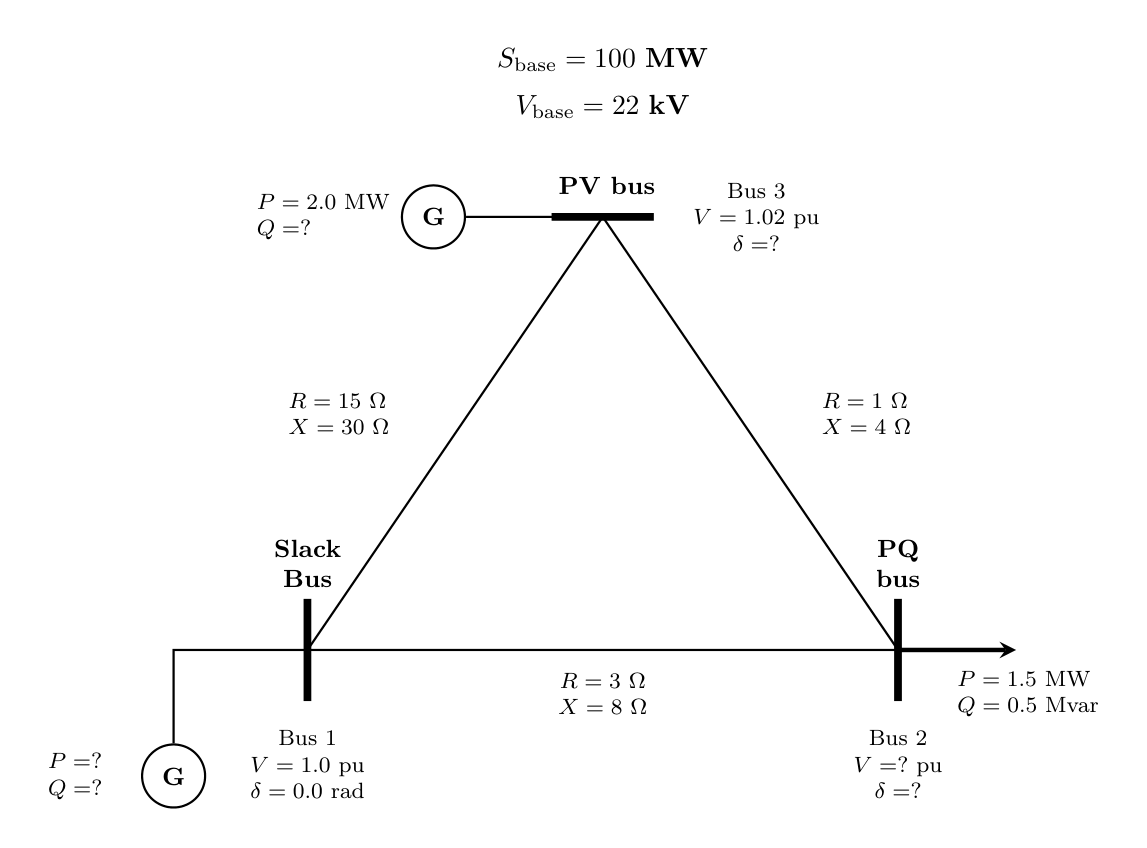
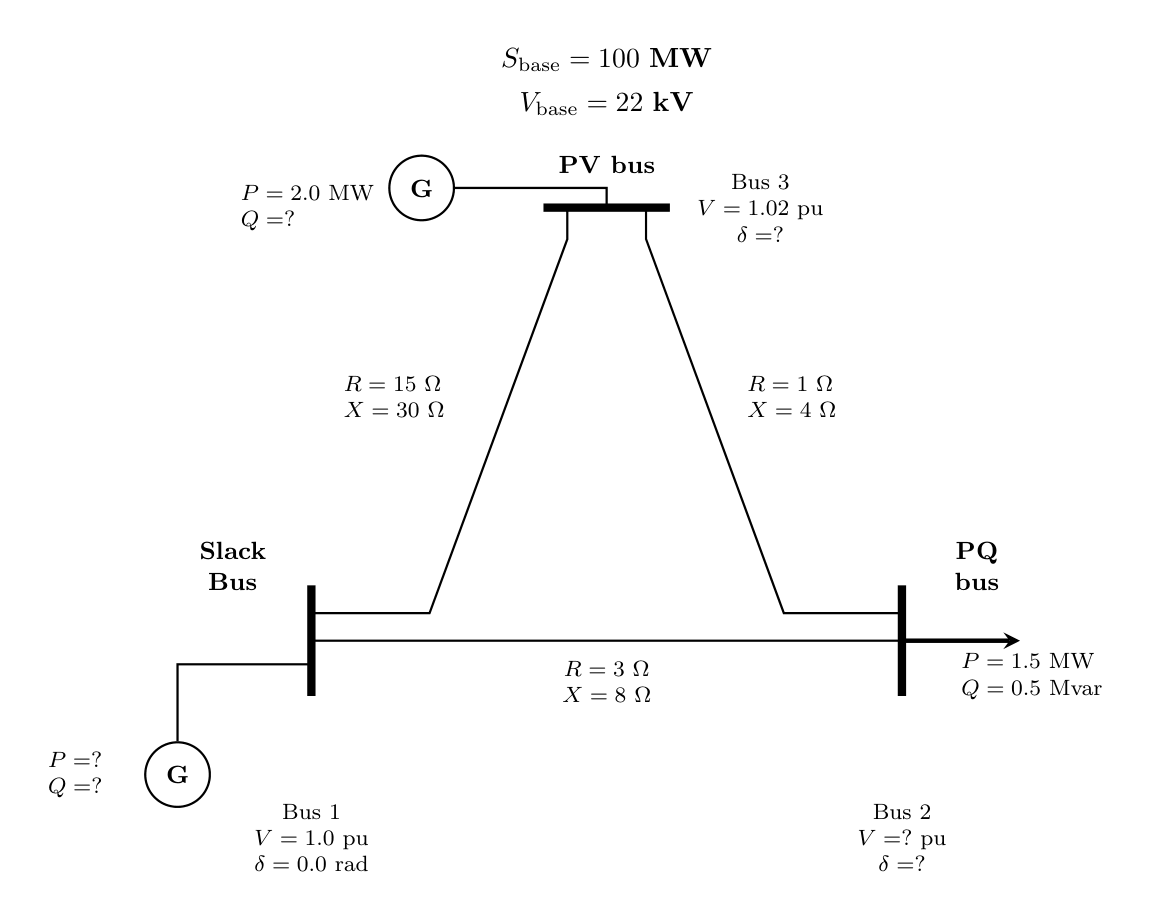
Changes to be committed_d06082026

diff --git a/Assignments/LaTeX_Script_for_n-bus_Power_System_Diagram/02.6-bus_power_system_diagram_v2.tex b/Assignments/LaTeX_Script_for_n-bus_Power_System_Diagram/02.6-bus_power_system_diagram_v2.tex
@@ -1,0 +1,162 @@
+\documentclass[tikz, border=14pt]{standalone}
+\usepackage{circuitikz}
+\usepackage{amsmath}
+
+% ============================================================
+%  EPE2316 – 6-Bus Power System Diagram  (Part 2)
+%
+%  Topology:
+%              G1
+%              |
+%              B1
+%           /      \
+%         L61       L12
+%        /            \
+%      B6              B2
+%   Load3|            |Load1
+%      L56               L23
+%        |                |
+%   G3--B5   Load2   B3--G2
+%          \   |   /
+%          L45 | L34
+%              B4
+%
+%  HOW TO EDIT:
+%    Bus coordinates  → search "BUS COORDINATES"
+%    Line labels      → each "TRANSMISSION LINE" section
+%    Generator labels → each "BUS" section
+%    Load labels      → each "BUS" section
+%    System base      → search "TITLE"
+% ============================================================
+
+\begin{document}
+\begin{tikzpicture}[
+    bus/.style        = {line width=2.8pt, line cap=rect},
+    conductor/.style  = {thick},
+    genbox/.style     = {circle, draw, thick, minimum size=0.82cm,
+                         inner sep=0pt, font=\small\bfseries},
+    % hollow open-triangle load arrow matching original figure
+    loadtri/.style    = {-{Triangle[open, length=8pt, width=7pt]},
+                         line width=1.5pt},
+    lbl/.style        = {font=\small\bfseries, align=center},
+    ann/.style        = {font=\footnotesize, align=center},
+    linelbl/.style    = {font=\footnotesize, align=center,
+                         fill=white, inner sep=1pt},
+]
+
+% ============================================================
+%  BUS COORDINATES
+%   B1 : (5.0,  6.5)   top-centre   (Slack)
+%   B2 : (8.5,  3.8)   mid-right    (PQ – Load 1)
+%   B3 : (8.5,  0.0)   bottom-right (PV – G2)
+%   B4 : (5.0,  0.0)   bottom-centre(PQ – Load 2)
+%   B5 : (1.5,  0.0)   bottom-left  (PV – G3)
+%   B6 : (1.5,  3.8)   mid-left     (PQ – Load 3)
+% ============================================================
+
+% ----------------------------------------------------------
+%  BUS 1  –  Slack, G1 above (top-centre)
+% ----------------------------------------------------------
+% horizontal bus bar
+\draw[bus] (4.3, 6.5) -- (5.7, 6.5);
+% generator above
+\node[genbox] (G1) at (5.0, 7.8) {G};
+\draw[conductor] (5.0, 7.4) -- (5.0, 6.5);
+\node[ann, right=3pt] at (G1.east) {G1};
+% label
+\node[ann, left=4pt] at (4.3, 6.5) {B1};
+
+% ----------------------------------------------------------
+%  BUS 2  –  PQ, Load 1 (mid-right)
+% ----------------------------------------------------------
+% vertical bus bar
+\draw[bus] (7.8, 3.8) -- (9.2, 3.8);
+% hollow-triangle load arrow upward
+\draw[loadtri] (8.8, 3.8) -- (8.8, 4.9);
+\node[ann, right=4pt] at (8.8, 4.75) {Load 1};
+% label
+\node[ann, left=4pt] at (7.8, 3.8) {B2};
+
+% ----------------------------------------------------------
+%  BUS 3  –  PV, G2 right (bottom-right)
+% ----------------------------------------------------------
+% horizontal bus bar
+\draw[bus] (7.8, 0.0) -- (9.2, 0.0);
+% generator to right
+\node[genbox] (G2) at (10.3, 0.25) {G};
+\draw[conductor] (9.0, 0) -- (9.0, 0.25) -- (G2.west);
+\node[ann, above=3pt] at (G2.north) {G2};
+% label
+\node[ann, below=4pt] at (8.5, 0.0) {B3};
+
+% ----------------------------------------------------------
+%  BUS 4  –  PQ, Load 2 (bottom-centre)
+% ----------------------------------------------------------
+% horizontal bus bar
+\draw[bus] (4.3, 0.0) -- (5.7, 0.0);
+% hollow-triangle load arrow upward
+\draw[loadtri] (5.0, 0.0) -- (5.0, 1.1);
+\node[ann, right=4pt] at (5.0, 0.8) {Load 2};
+% label
+\node[ann, below=4pt] at (5.0, 0.0) {B4};
+
+% ----------------------------------------------------------
+%  BUS 5  –  PV, G3 left (bottom-left)
+% ----------------------------------------------------------
+% horizontal bus bar
+\draw[bus] (0.8, 0.0) -- (2.2, 0.0);
+% generator to left
+\node[genbox] (G3) at (-0.3, 0.25) {G};
+\draw[conductor] (G3.east) -- (1.0, 0.25) -- (1.0, 0);
+\node[ann, above=3pt] at (G3.north) {G3};
+% label
+\node[ann, below=4pt] at (1.5, 0.0) {B5};
+
+% ----------------------------------------------------------
+%  BUS 6  –  PQ, Load 3 (mid-left)
+% ----------------------------------------------------------
+% vertical bus bar
+\draw[bus] (0.8, 3.8) -- (2.2, 3.8);
+% hollow-triangle load arrow upward
+\draw[loadtri] (1.2, 3.8) -- (1.2, 4.9);
+\node[ann, left=4pt] at (1.2, 4.75) {Load 3};
+% label
+\node[ann, right=4pt] at (2.2, 3.8) {B6};
+
+% ============================================================
+%  TRANSMISSION LINES
+% ============================================================
+
+% ---- L61  B6 (1.5, 3.8) ↔ B1 (5.0, 6.5) -----------------
+\draw[conductor] (1.8, 3.8) -- (1.8, 4.05) -- (4.7, 6.25) -- (4.7, 6.5);
+\node[linelbl] at (2.9, 5.35) {L61};
+
+% ---- L12  B1 (5.0, 6.5) ↔ B2 (8.5, 3.8) -----------------
+\draw[conductor] (5.3, 6.5) -- (5.3, 6.25) -- (8.2, 4.05) -- (8.2, 3.8);
+\node[linelbl] at (7.1, 5.35) {L12};
+
+% ---- L23  B2 (8.5, 3.8) ↔ B3 (8.5, 0.0) -----------------
+\draw[conductor] (8.5, 3.8) -- (8.5, 0.0);
+\node[linelbl] at (9.15, 1.9) {L23};
+
+% ---- L34  B3 (8.5, 0.0) ↔ B4 (5.0, 0.0) -----------------
+\draw[conductor] (8.0, 0) -- (8.0, 0.25) -- (5.5, 0.25) -- (5.5, 0);
+\node[linelbl] at (6.75, 0.63) {L34};
+
+% ---- L45  B4 (5.0, 0.0) ↔ B5 (1.5, 0.0) -----------------
+\draw[conductor] (4.5, 0) -- (4.5, 0.25) -- (2.0, 0.25) -- (2.0, 0);
+\node[linelbl] at (3.25, 0.63) {L45};
+
+% ---- L56  B5 (1.5, 0.0) ↔ B6 (1.5, 3.8) -----------------
+\draw[conductor] (1.5, 0.0) -- (1.5, 3.8);
+\node[linelbl] at (0.85, 1.9) {L56};
+
+% ============================================================
+%  TITLE – system base (top-left box, matching original style)
+% ============================================================
+\draw[thick] (-0.5, 8.55) rectangle (3.1, 7.45);
+\node[font=\footnotesize, align=left] at (1.3, 8.0)
+    {$S_{\text{base}} = 100$ MVA\\[2pt]$V_{\text{base}} = 132$ kV};
+
+\end{tikzpicture}
+\end{document}

diff --git a/Assignments/LaTeX_Script_for_n-bus_Power_System_Diagram/01.3-bus_power_system_diagram_v2.tex b/Assignments/LaTeX_Script_for_n-bus_Power_System_Diagram/01.3-bus_power_system_diagram_v2.tex
@@ -1,0 +1,128 @@
+\documentclass[tikz, border=14pt]{standalone}
+\usepackage{circuitikz}
+\usepackage{amsmath}
+
+% ============================================================
+%  EPE2316 – 3-Bus Power System Diagram  (v2 – correct bus taps)
+%
+%  KEY CONVENTION: conductors approach bus bars at 90 degrees.
+%  Each transmission line taps the bus bar at a distinct point,
+%  making T-junctions clearly visible. Short orthogonal stubs
+%  connect the diagonal runs to the bars.
+%
+%  Bus 1 (Slack) : vertical bar at x=1.5
+%  Bus 2 (PQ)    : vertical bar at x=9.0
+%  Bus 3 (PV)    : horizontal bar at y=5.5, x=4.5 to 6.0
+%
+%  Line routing:
+%   L1-2 : horizontal, y=0, from Bus1 to Bus2 (no elbow needed)
+%   L1-3 : tap Bus1 at (1.5, 0.35) -> short horizontal stub left
+%           -> diagonal up-right -> short horizontal stub right
+%           -> tap Bus3 at (4.5, 5.5)
+%   L2-3 : tap Bus2 at (9.0, 0.35) -> short horizontal stub right
+%           -> diagonal up-left -> short horizontal stub left
+%           -> tap Bus3 at (6.0, 5.5)
+%
+%  System base: S_base = 100 MW,  V_base = 22 kV
+% ============================================================
+
+\begin{document}
+\begin{tikzpicture}[
+    bus/.style       = {line width=3pt, line cap=rect},
+    conductor/.style = {thick},
+    genbox/.style    = {circle, draw, thick, minimum size=0.82cm,
+                        inner sep=0pt, font=\small\bfseries},
+    loadarrow/.style = {->, >=stealth, line width=1.6pt},
+    lbl/.style       = {font=\small\bfseries, align=center},
+    ann/.style       = {font=\footnotesize, align=center},
+    param/.style     = {font=\footnotesize, align=left},
+]
+
+% ============================================================
+%  BUS 1  –  Slack Bus (bottom-left), vertical bar at x=1.5
+% ============================================================
+\draw[bus] (1.5, -0.65) -- (1.5, 0.65);
+
+% Generator: elbow left then down from lower tap
+\node[genbox] (G1) at (-0.2, -1.7) {G};
+\draw[conductor] (1.5, -0.3) -- (-0.2, -0.3) -- (G1.north);
+\node[param] at (-1.5, -1.7) {$P = ?$\\$Q = ?$};
+\node[lbl]   at (0.5, 0.95)  {Slack\\Bus};
+\node[ann]   at (1.5, -2.5)
+    {Bus 1\\$V = 1.0\ \mathrm{pu}$\\$\delta = 0.0\ \mathrm{rad}$};
+
+% ============================================================
+%  BUS 2  –  PQ Bus (bottom-right), vertical bar at x=9.0
+% ============================================================
+\draw[bus] (9.0, -0.65) -- (9.0, 0.65);
+
+\draw[loadarrow] (9.0, 0) -- (10.5, 0);
+\node[param] at (10.65, -0.45) {$P = 1.5\ \mathrm{MW}$\\$Q = 0.5\ \mathrm{Mvar}$};
+\node[lbl]   at (9.95, 0.95) {PQ\\bus};
+\node[ann]   at (9.0, -2.5)
+    {Bus 2\\$V = ?\ \mathrm{pu}$\\$\delta = ?$};
+
+% ============================================================
+%  BUS 3  –  PV Bus (top-centre), horizontal bar at y=5.5
+% ============================================================
+\draw[bus] (4.5, 5.5) -- (6.0, 5.5);
+
+\node[genbox] (G3) at (2.9, 5.75) {G};
+\draw[conductor] (G3.east) -- (5.25, 5.75) -- (5.25, 5.5);
+\node[param] at (1.45, 5.5)  {$P = 2.0\ \mathrm{MW}$\\$Q = ?$};
+\node[lbl]   at (5.25, 6.05) {PV bus};
+\node[ann]   at (7.2, 5.5)
+    {Bus 3\\$V = 1.02\ \mathrm{pu}$\\$\delta = ?$};
+
+% ============================================================
+%  TRANSMISSION LINE 1–2   R = 3 Ohm,  X = 8 Ohm
+%  Pure horizontal run – both bus bars are at y=0, no elbow needed.
+%  Taps Bus 1 at (1.5, 0) and Bus 2 at (9.0, 0).
+% ============================================================
+\draw[conductor] (1.5, 0) -- (9.0, 0);
+\node[ann] at (5.25, -0.52) {$R = 3\ \Omega$\\$X = 8\ \Omega$};
+
+% ============================================================
+%  TRANSMISSION LINE 1–3   R = 15 Ohm,  X = 30 Ohm
+%
+%  Three segments – forms an angled run but with 90-deg stubs
+%  at both bus bar ends so the tap is always perpendicular:
+%
+%    (1.5,  0.35)  upper tap on Bus 1 vertical bar
+%    (1.0,  0.35)  short horizontal stub LEFT  (clears the bar)
+%    (4.5,  5.2 )  diagonal run up-right
+%    (4.5,  5.5 )  short vertical stub UP into Bus 3
+% ============================================================
+\draw[conductor]
+    (1.5,  0.35)   % tap on Bus 1 (upper)
+    -- (3.0,  0.35)   % stub: move left so diagonal clears bar
+    -- (4.75,  5.1)    % diagonal up to just below Bus 3
+    -- (4.75,  5.5);   % stub: vertical into Bus 3 tap
+
+\node[param] at (2.55, 3.1) {$R = 15\ \Omega$\\$X = 30\ \Omega$};
+
+% ============================================================
+%  TRANSMISSION LINE 2–3   R = 1 Ohm,  X = 4 Ohm
+%
+%    (9.0,  0.35)  upper tap on Bus 2 vertical bar
+%    (9.5,  0.35)  short horizontal stub RIGHT (clears the bar)
+%    (6.0,  5.2 )  diagonal run up-left
+%    (6.0,  5.5 )  short vertical stub UP into Bus 3
+% ============================================================
+\draw[conductor]
+    (9.0,  0.35)   % tap on Bus 2 (upper)
+    -- (7.5,  0.35)   % stub: move right so diagonal clears bar
+    -- (5.75,  5.1)    % diagonal up-left to just below Bus 3
+    -- (5.75,  5.5);   % stub: vertical into Bus 3 tap
+
+\node[param] at (7.6, 3.1) {$R = 1\ \Omega$\\$X = 4\ \Omega$};
+
+% ============================================================
+%  TITLE  –  System base values
+% ============================================================
+\node[font=\normalsize, align=center] at (5.25, 7.1)
+    {$S_{\text{base}} = 100\ \mathbf{MW}$\\[4pt]
+     $V_{\text{base}} = 22\ \mathbf{kV}$};
+
+\end{tikzpicture}
+\end{document}
